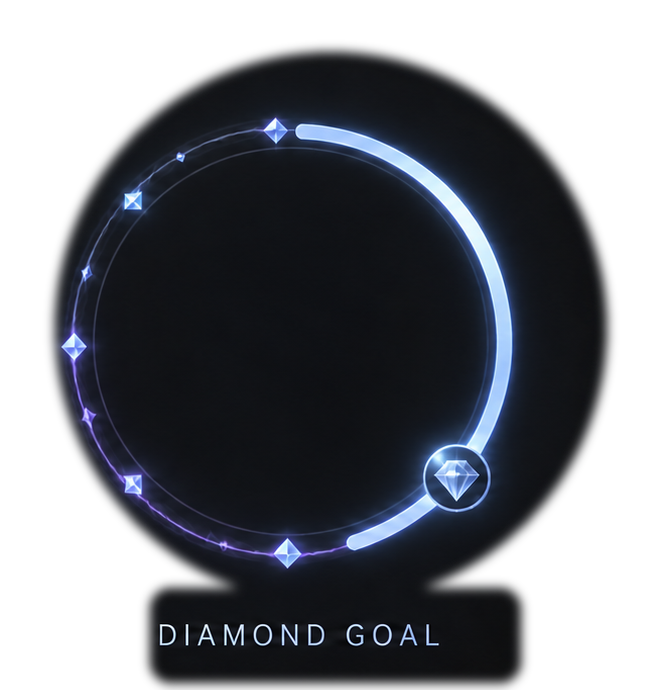
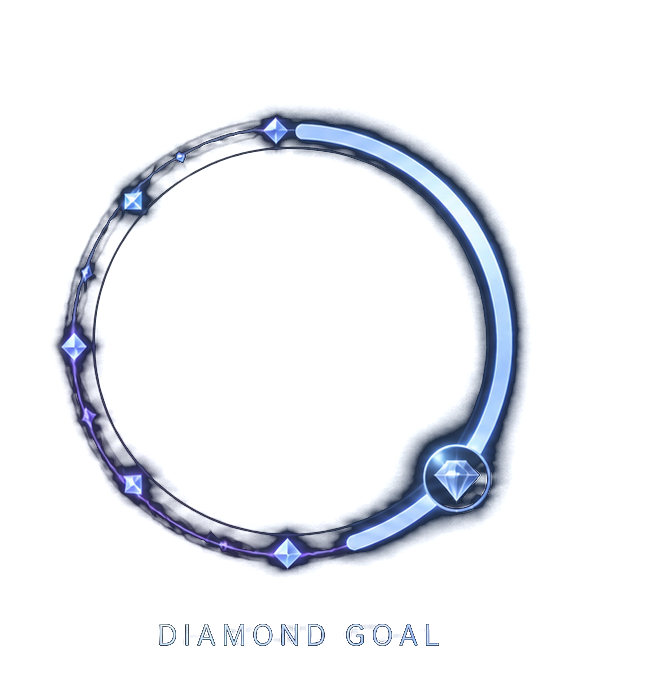
Goals: Orbit-designerna är genomskinliga, ingen svart skiva bakom ringen (#615)
* Goals: Orbit-designerna är genomskinliga, ingen svart skiva bakom ringen

Heart Orbit, Crown Orbit och Diamond Orbit (Like, Follower och Diamond Goal
i cirkelform) hade en ogenomskinlig nästan-svart skiva och en svart
etikettplatta inbakade i PNG-filen - ungefär halva bilden täckte kameran
bakom widgeten. Uppmätt: mitten av circle-like.png var (16,16,19) med alfa 255.

Det svarta är nu bortnyckat ur circle-like/-follower/-diamond.png: allt
under luminans 28 blir genomskinligt, med mjuk övergång upp till 70, och
glöden i övergången avmultipliceras mot svart så att den inte blir grå.
Ringen, stjärnorna, ikonerna och den inbakade texten är kvar.

* Visuella referenser: 3 bilder skrivna pa den pinnade Chromium

* CI: kör om efter nya referenser för Orbit-målen

---------

diff --git a/tests/visual/referenser/historik.md b/tests/visual/referenser/historik.md
@@ -408,3 +408,9 @@ Varje rad är en gång någon medvetet bytte ut hur en widget får se ut.
 - **Motiv:** Fan Level 50: will-change borttaget fran bandet (suddigt nar overlayen skalas upp i OBS) - kortet rastreras skarpare, PR #614
 - **Motor:** Google Chrome for Testing 151.0.7922.34
 - **Nycklar:** 4 av 169 (filter: fanlevel50) — catalog:fanlevel50:lejon, catalog:fanlevel50:ornen, catalog:fanlevel50:royal, catalog:fanlevel50:zeus
+
+## 2026-10-16 — 9 referenser skrivna
+
+- **Motiv:** Goals: svart skiva och etikettplatta bortnyckade ur circle-like/-follower/-diamond.png, PR #615
+- **Motor:** Google Chrome for Testing 151.0.7922.34
+- **Nycklar:** 9 av 169 (filter: socialgoal) — catalog:socialgoal:diamonds:diamond-orbit:circle, catalog:socialgoal:diamonds:diamond-rail:landscape, catalog:socialgoal:diamonds:diamond-tower:portrait, catalog:socialgoal:followers:crown-orbit:circle, catalog:socialgoal:followers:crown-rail:landscape, catalog:socialgoal:followers:crown-tower:portrait, catalog:socialgoal:likes:heart-orbit:circle, catalog:socialgoal:likes:heart-rail:landscape, catalog:socialgoal:likes:heart-tower:portrait
